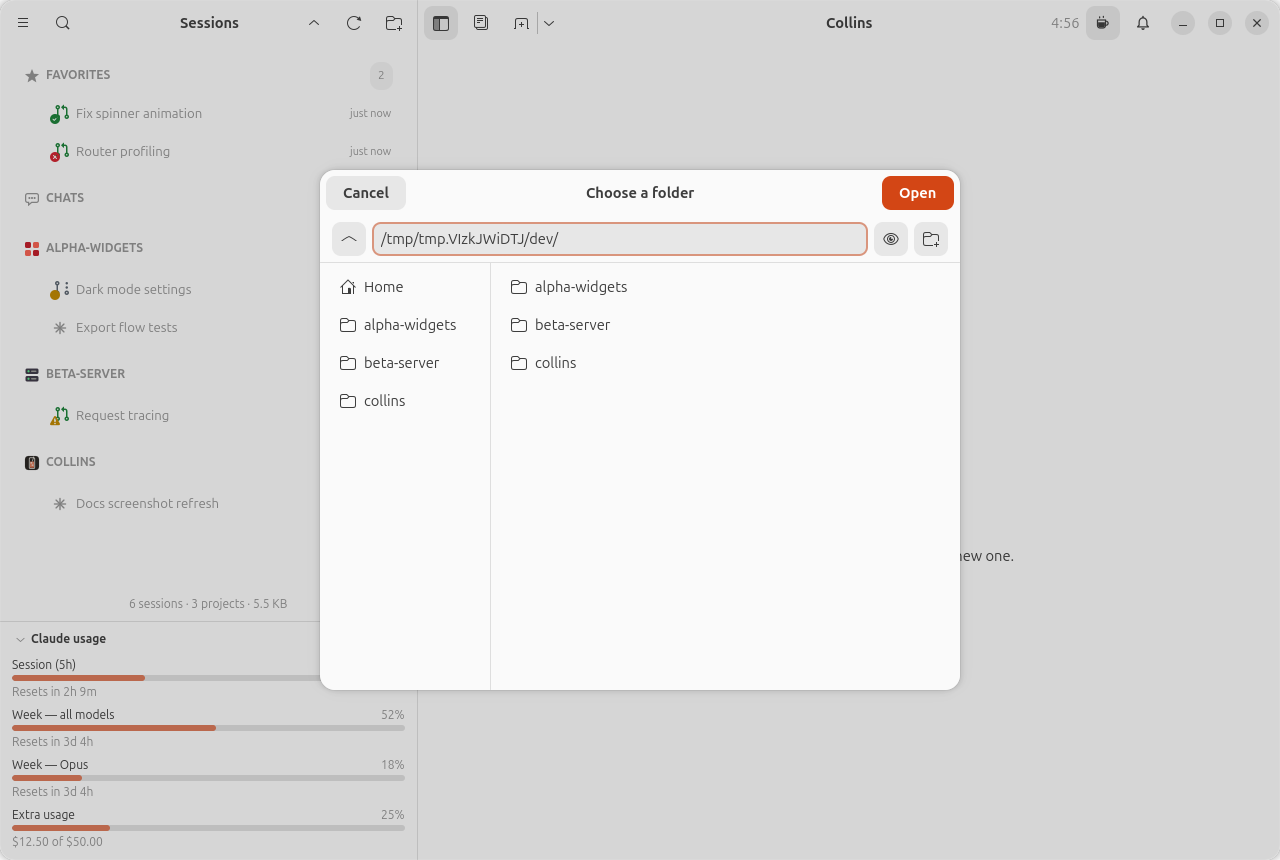
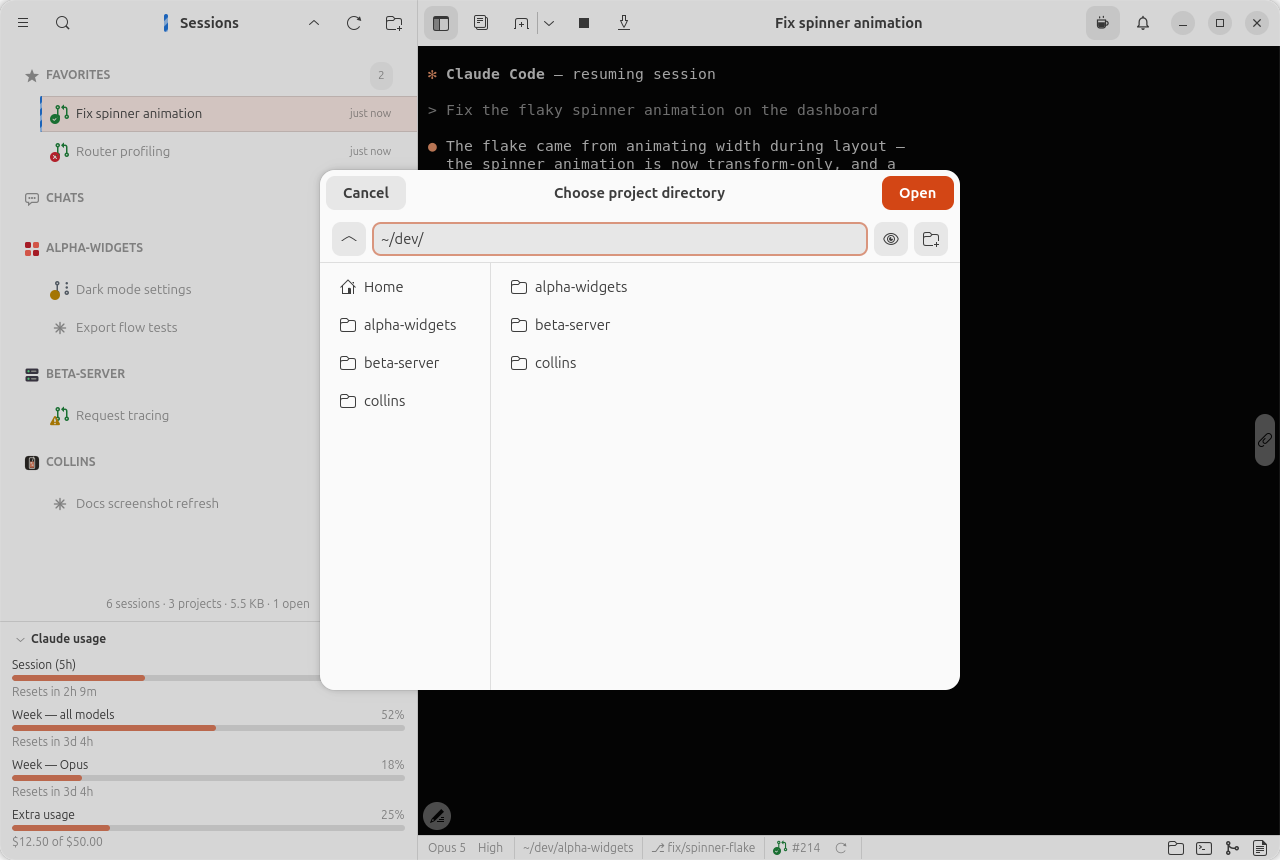
Docs: the review of PR 631 (S1-S3, N1, N2)
remote.md's restart section is cut to where remote differs (Restart service works on the box the window shows, an upgrade restarts nothing, the reconnect through the forward, stopping the keeper over ssh) with the link to service.md; the mismatch sentence no longer says a window cannot stop a process on another machine (the menu item does ask the box's service to restart); the local-extras bullet names the rows as the menu does; Test's command is marked as the short form in the guide and in features.md. The picker shot is retaken with the sites' title and the entry put back to ~/dev/ through the quiet setter, the connect dialog with a neutral user in the form.

Claude-Session: https://claude.ai/code/session_01ATZ91mn8D5H98bakMm3ZZW

diff --git a/.agents/capture-screenshots/scripts/capture-docs.py b/.agents/capture-screenshots/scripts/capture-docs.py
@@ -502,20 +502,24 @@ def stage(win) -> list[tuple[int, callable]]:
 
         def fill_form() -> None:
             dialog = win.get_visible_dialog()
+            # Nothing of this machine's login or hostname in frame.
             dialog.name_row.set_text("workstation")
-            dialog.target_row.set_text("ghackett@workstation.lan")
+            dialog.target_row.set_text("collins@workstation.example.net")
 
         return [(800, fill_form)]
     elif scene == "path-picker":
         from collins import pathpicker
 
-        picker = pathpicker.pick_folder(win, "~/dev", lambda _path: None)
+        picker = pathpicker.pick_folder(
+            win, "~/dev", lambda _path: None, title="Choose project directory",
+        )
 
         def tilde_path() -> None:
-            # The service answers with the scratch HOME's absolute path;
-            # the entry takes the typed form, as it does for a person.
-            picker.entry.set_text("~/dev/")
-            picker.entry.set_position(-1)
+            # The listing landed and the entry shows the service's answer,
+            # the scratch HOME's absolute path. The quiet setter puts the
+            # typed form back without a relist: nothing rewrites it, so the
+            # rows stay and the entry reads ~/dev/ as it would for a person.
+            picker._set_text("~/dev/")
 
         return [(1500, tilde_path)]
     elif scene == "sized-for":

diff --git a/docs/guide/remote.md b/docs/guide/remote.md
@@ -39,7 +39,7 @@ computer* selected.
 
 **Add ssh connection** takes a name and the host as `user@host`,
 `user@host:port` or a bare host (a name or an IPv4 address; an IPv6
-literal is not taken). **Test** runs
+literal is not taken). **Test** runs, in short (the full command is [below](#what-ssh-does-for-you)),
 
 ```
 ssh -o BatchMode=yes user@host collins-service --print-socket
@@ -209,29 +209,13 @@ copied over.
 When the box's Collins and yours are too far apart to talk (the window
 speaks the service's protocol or the one before it), the dialog names
 the box and the side to upgrade, and offers **Connect to This Computer**;
-it never offers *Restart service* for a box, since a window cannot stop a
-process on another machine. Upgrade Collins on the side it names and
+it never offers *Restart service* for a box, since a service this window
+cannot speak to cannot be sent one. Upgrade Collins on the side it names and
 connect again.
 
 ## Restarting the service on the box
 
-A small companion program, `collins-keeper`, forks every agent and panel
-shell on the service's behalf and keeps their terminals, so the service
-can stop without taking the sessions with it. **Restart service** in the
-main menu (the package restarts nothing on an upgrade, so this is how a
-box runs new code) and `systemctl --user restart collins-service` end no
-session: the next service takes the terminals
-over, loads the screen it saved for each and makes every program repaint,
-and the window reconnects through the forward and shows each open tab where
-it was, mid-turn included. A crash of the service ends nothing either. To
-end every session on the box for good, stop the keeper too
-(`systemctl --user stop collins-keeper.service`). Where the keeper could
-not be started (or `COLLINS_KEEPER=none` is set in the service's
-environment), a restart ends every foreground session gracefully and each
-tab resumes its own; the restart dialog says which one it is. The CLI's
-`/bg` daemon and its agents run through any of it. Both units are
-`KillMode=process`, never enabled by a package. The details are in [Restarting and
-stopping](./service#restarting-and-stopping).
+**Restart service** in the main menu works on the box the window shows: it asks that service to restart over the link in use, and the package restarts nothing on an upgrade, so this is how a box runs new code. The sessions on the box run through the restart under their keeper, and the window reconnects through the forward and shows each open tab where it was. To end every session on the box for good, stop the keeper there (`systemctl --user stop collins-keeper.service`, over ssh). What the keeper holds, when it is missing and what the dialog says are in [Restarting and stopping](./service#restarting-and-stopping).
 
 ## Notifications while you are away
 
@@ -258,8 +242,8 @@ checkouts. A few things hand a path to a program on *your* computer, and
 those stay hidden when your computer is not the service's machine — they
 would open the wrong file on the wrong machine:
 
-- *Open in Ghostty*, *Open in File Manager*, *Open in Terminal*, every
-  *Open In…* app and *Reveal transcript*.
+- *Open in Ghostty*, *Reveal transcript* and every *Open In…* row (your
+  footer apps, *File Manager*, *Terminal*, the default app).
 - `file:` URIs on the clipboard (the editor's file clipboard still works
   within Collins; other apps get the paths as text).
 - A dropped file mentioned by its own path (it is uploaded instead).

diff --git a/.agents/capture-screenshots/SKILL.md b/.agents/capture-screenshots/SKILL.md
@@ -277,8 +277,9 @@ never pressed, nothing reaches a network), `sized-for` (a second bare
 `SocketLink` on another device attaches to the tab's pty and takes the size,
 so the tab is pinned under its *Sized for* banner; the shim clears
 scrollback too, or the redraw shows the typed command above it) and
-`path-picker` (the service-side folder picker on `~/dev`; its entry shows
-the scratch HOME's absolute path) — the remote guide's three, `welcome` and `welcome-cli`
+`path-picker` (the service-side folder picker on `~/dev`, titled as the
+sites title it; the entry is put back to `~/dev/` through the picker's quiet
+setter once the listing has landed) — the remote guide's three, `welcome` and `welcome-cli`
 (the first-launch dialog with the CLI found, and with it not found — the
 shot runs with `welcome_seen` set back to false, and the not-found one
 hides the service's `claude` from remotecli and seeds `~/.local/bin/claude`

diff --git a/docs/guide/features.md b/docs/guide/features.md
@@ -144,8 +144,9 @@ Enter opens, Esc closes.
   *close* mean: see *Detach*, *Quit* and *Restart service* below.
 - **Connect to…** (the app menu) picks which service the window shows:
   *This computer*, or a box reached over ssh. **Add ssh connection** takes
-  a name and `user@host[:port]`, **Test** runs `ssh -o BatchMode=yes TARGET
-  collins-service --print-socket` and shows the socket's path or ssh's
+  a name and `user@host[:port]`, **Test** runs, in short, `ssh -o BatchMode=yes TARGET
+  collins-service --print-socket` (through the box's login shell: the full
+  command is in the guide) and shows the socket's path or ssh's
   last line, **Connect** forwards the box's socket over `ssh -L` and
   switches: every tab detaches with no question, the sidebar refills with
   the box's sessions, and the tabs you last had open there come back. A
